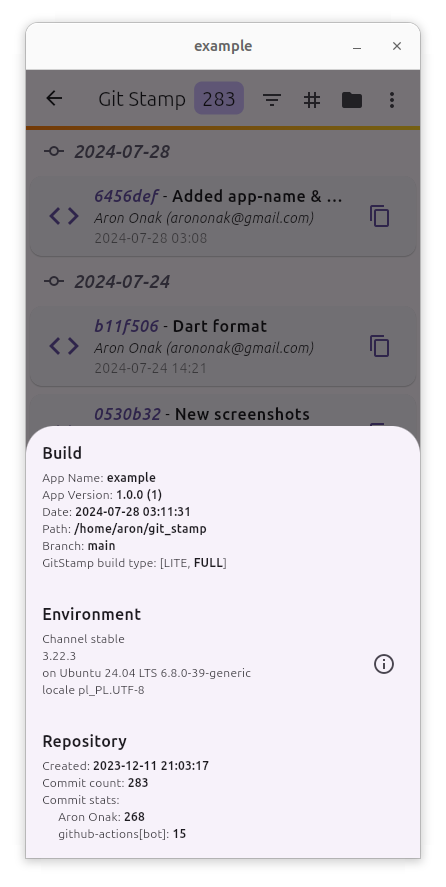
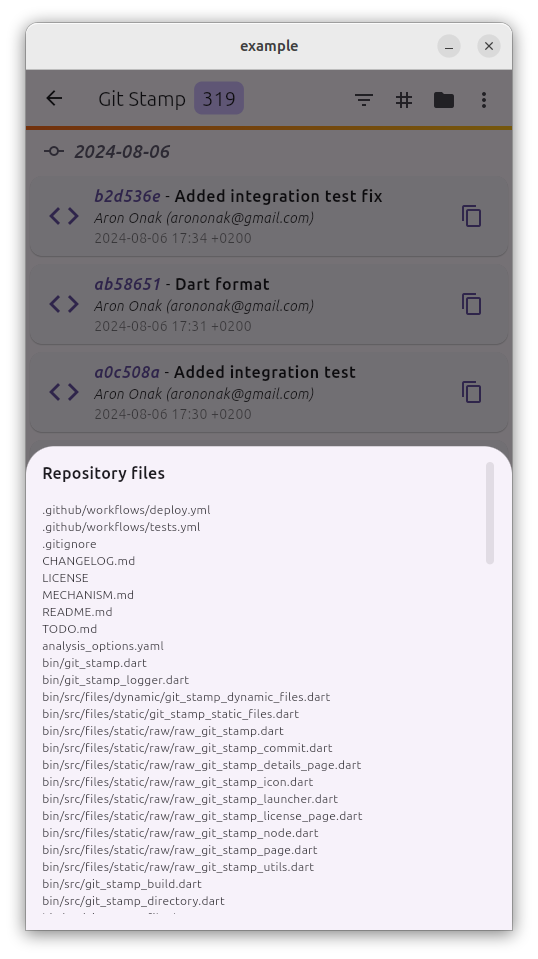
Screenshots update & fixes

diff --git a/example/lib/main.dart b/example/lib/main.dart
@@ -17,7 +17,7 @@ class ExampleApp extends StatelessWidget {
       home: MainPage(),
       theme: ThemeData(useMaterial3: true),
       darkTheme: ThemeData.dark(useMaterial3: true),
-      themeMode: ThemeMode.dark,
+      themeMode: ThemeMode.system,
     );
   }
 }
